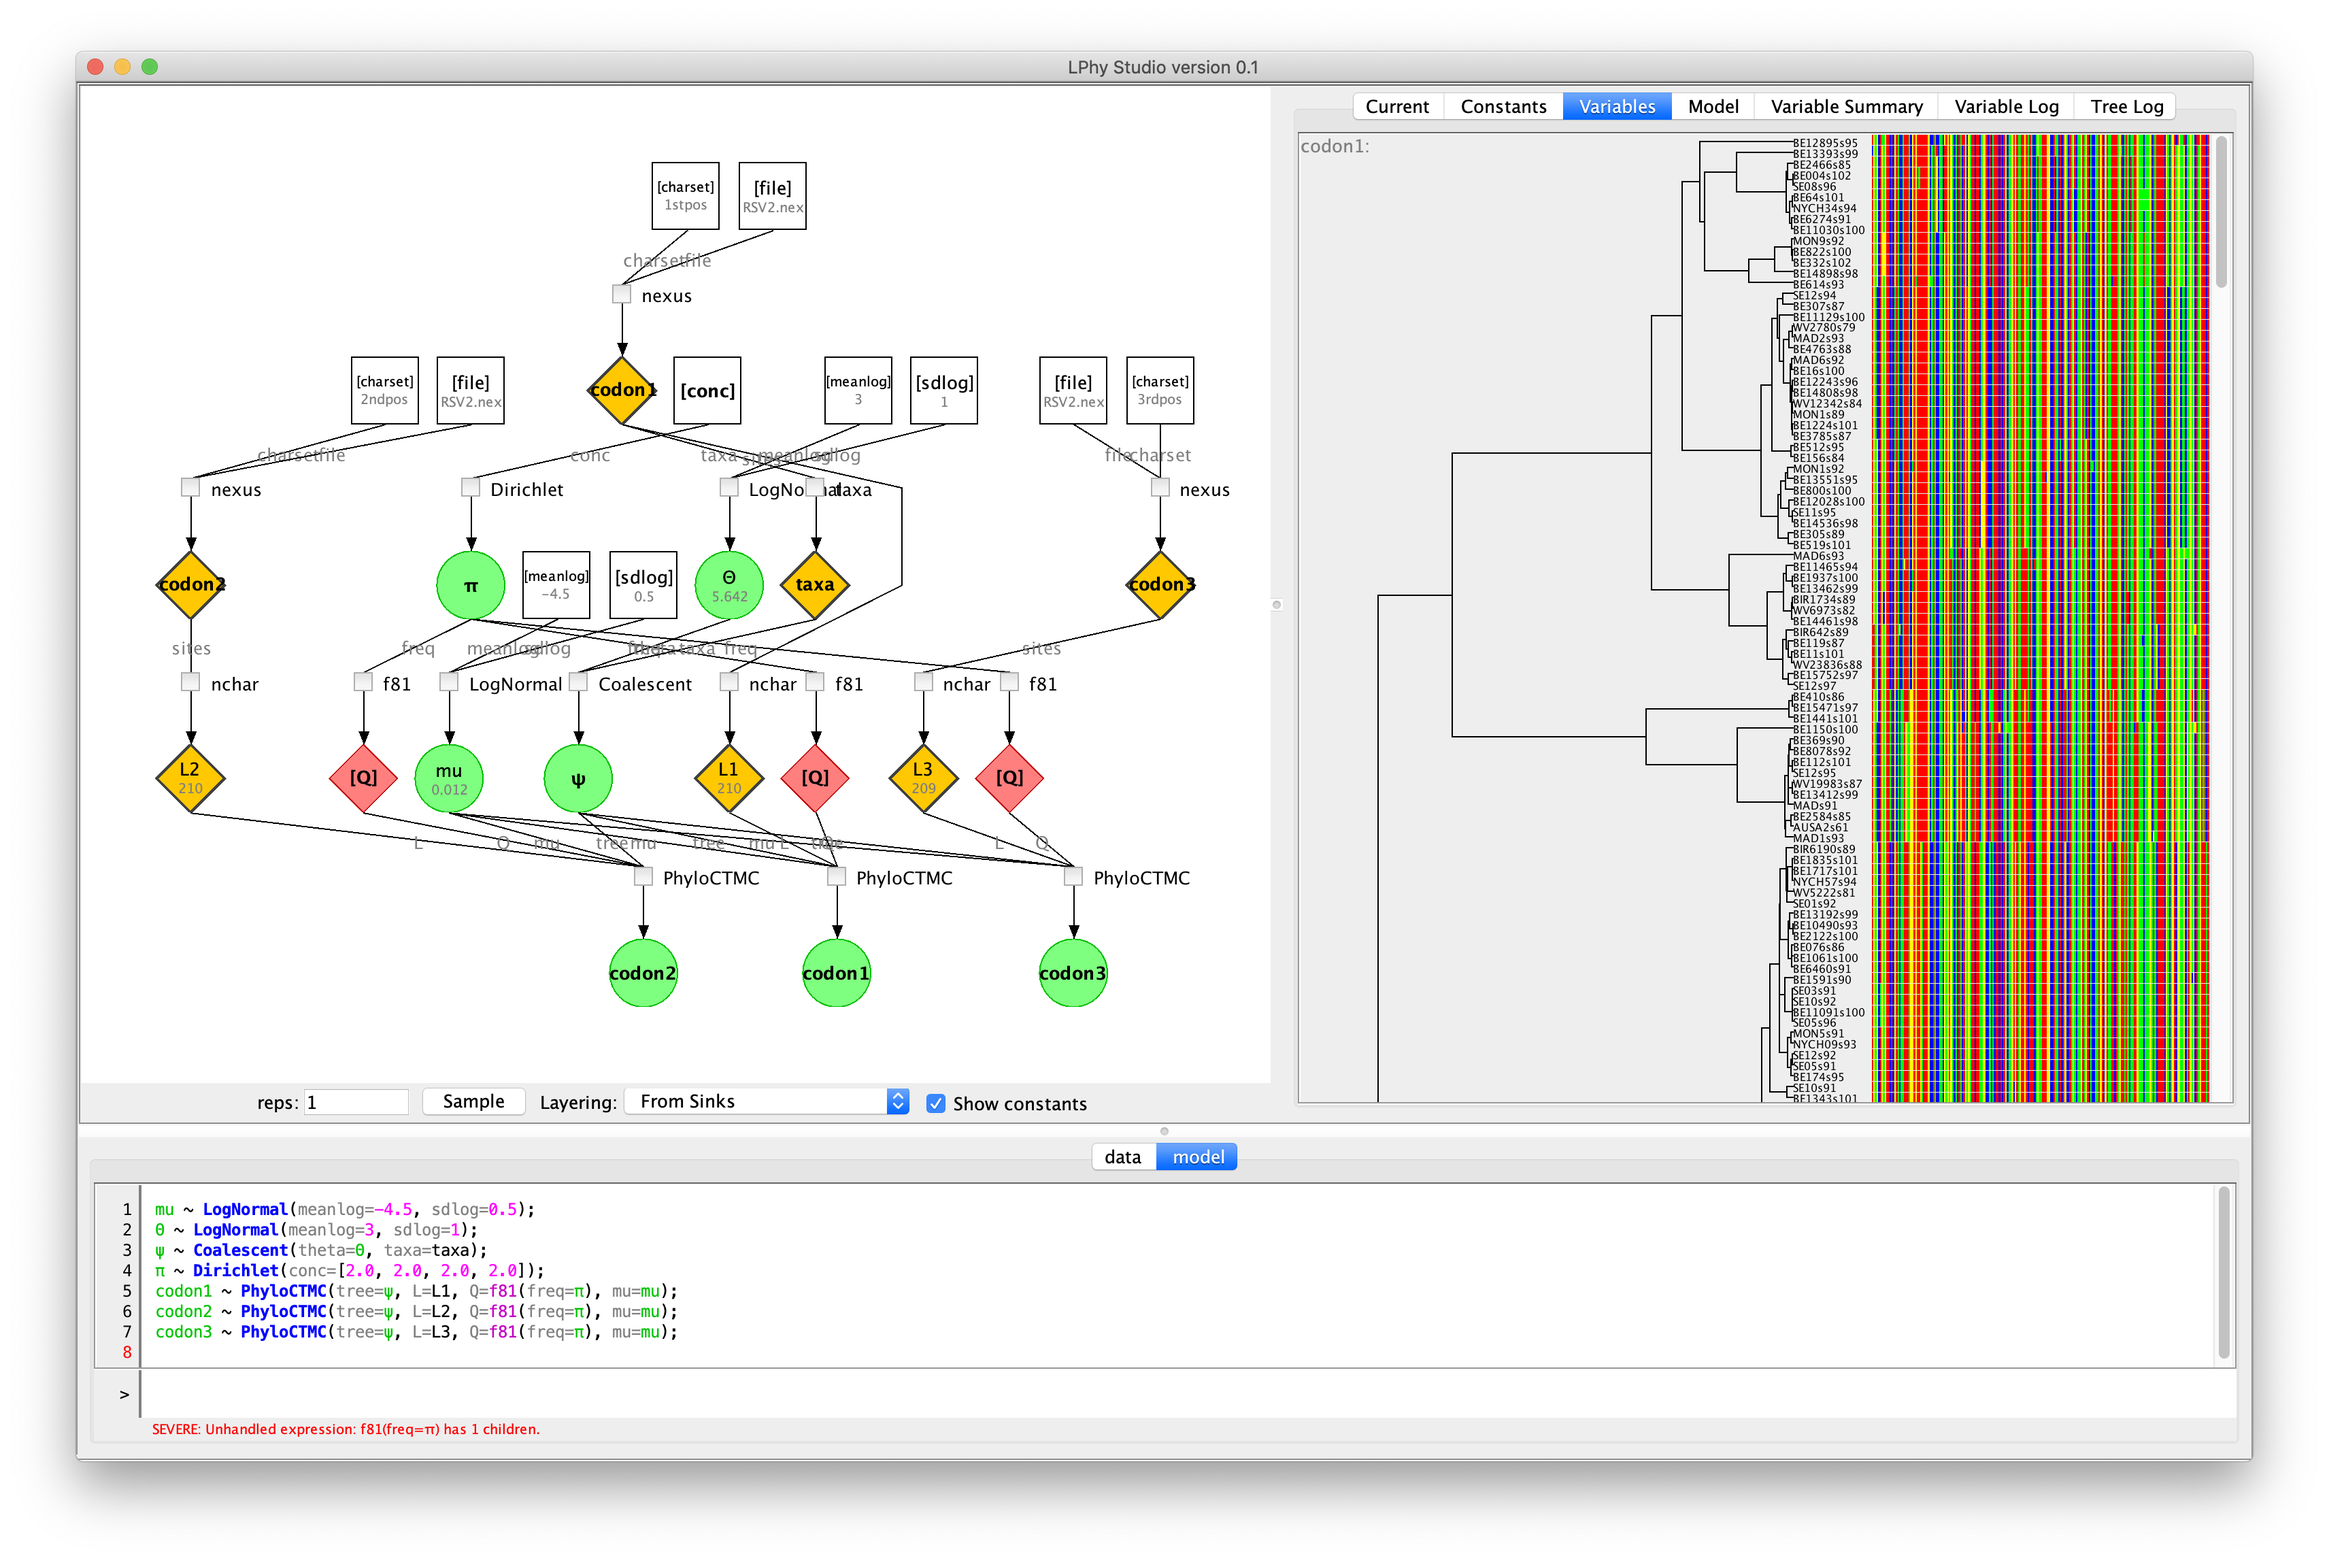
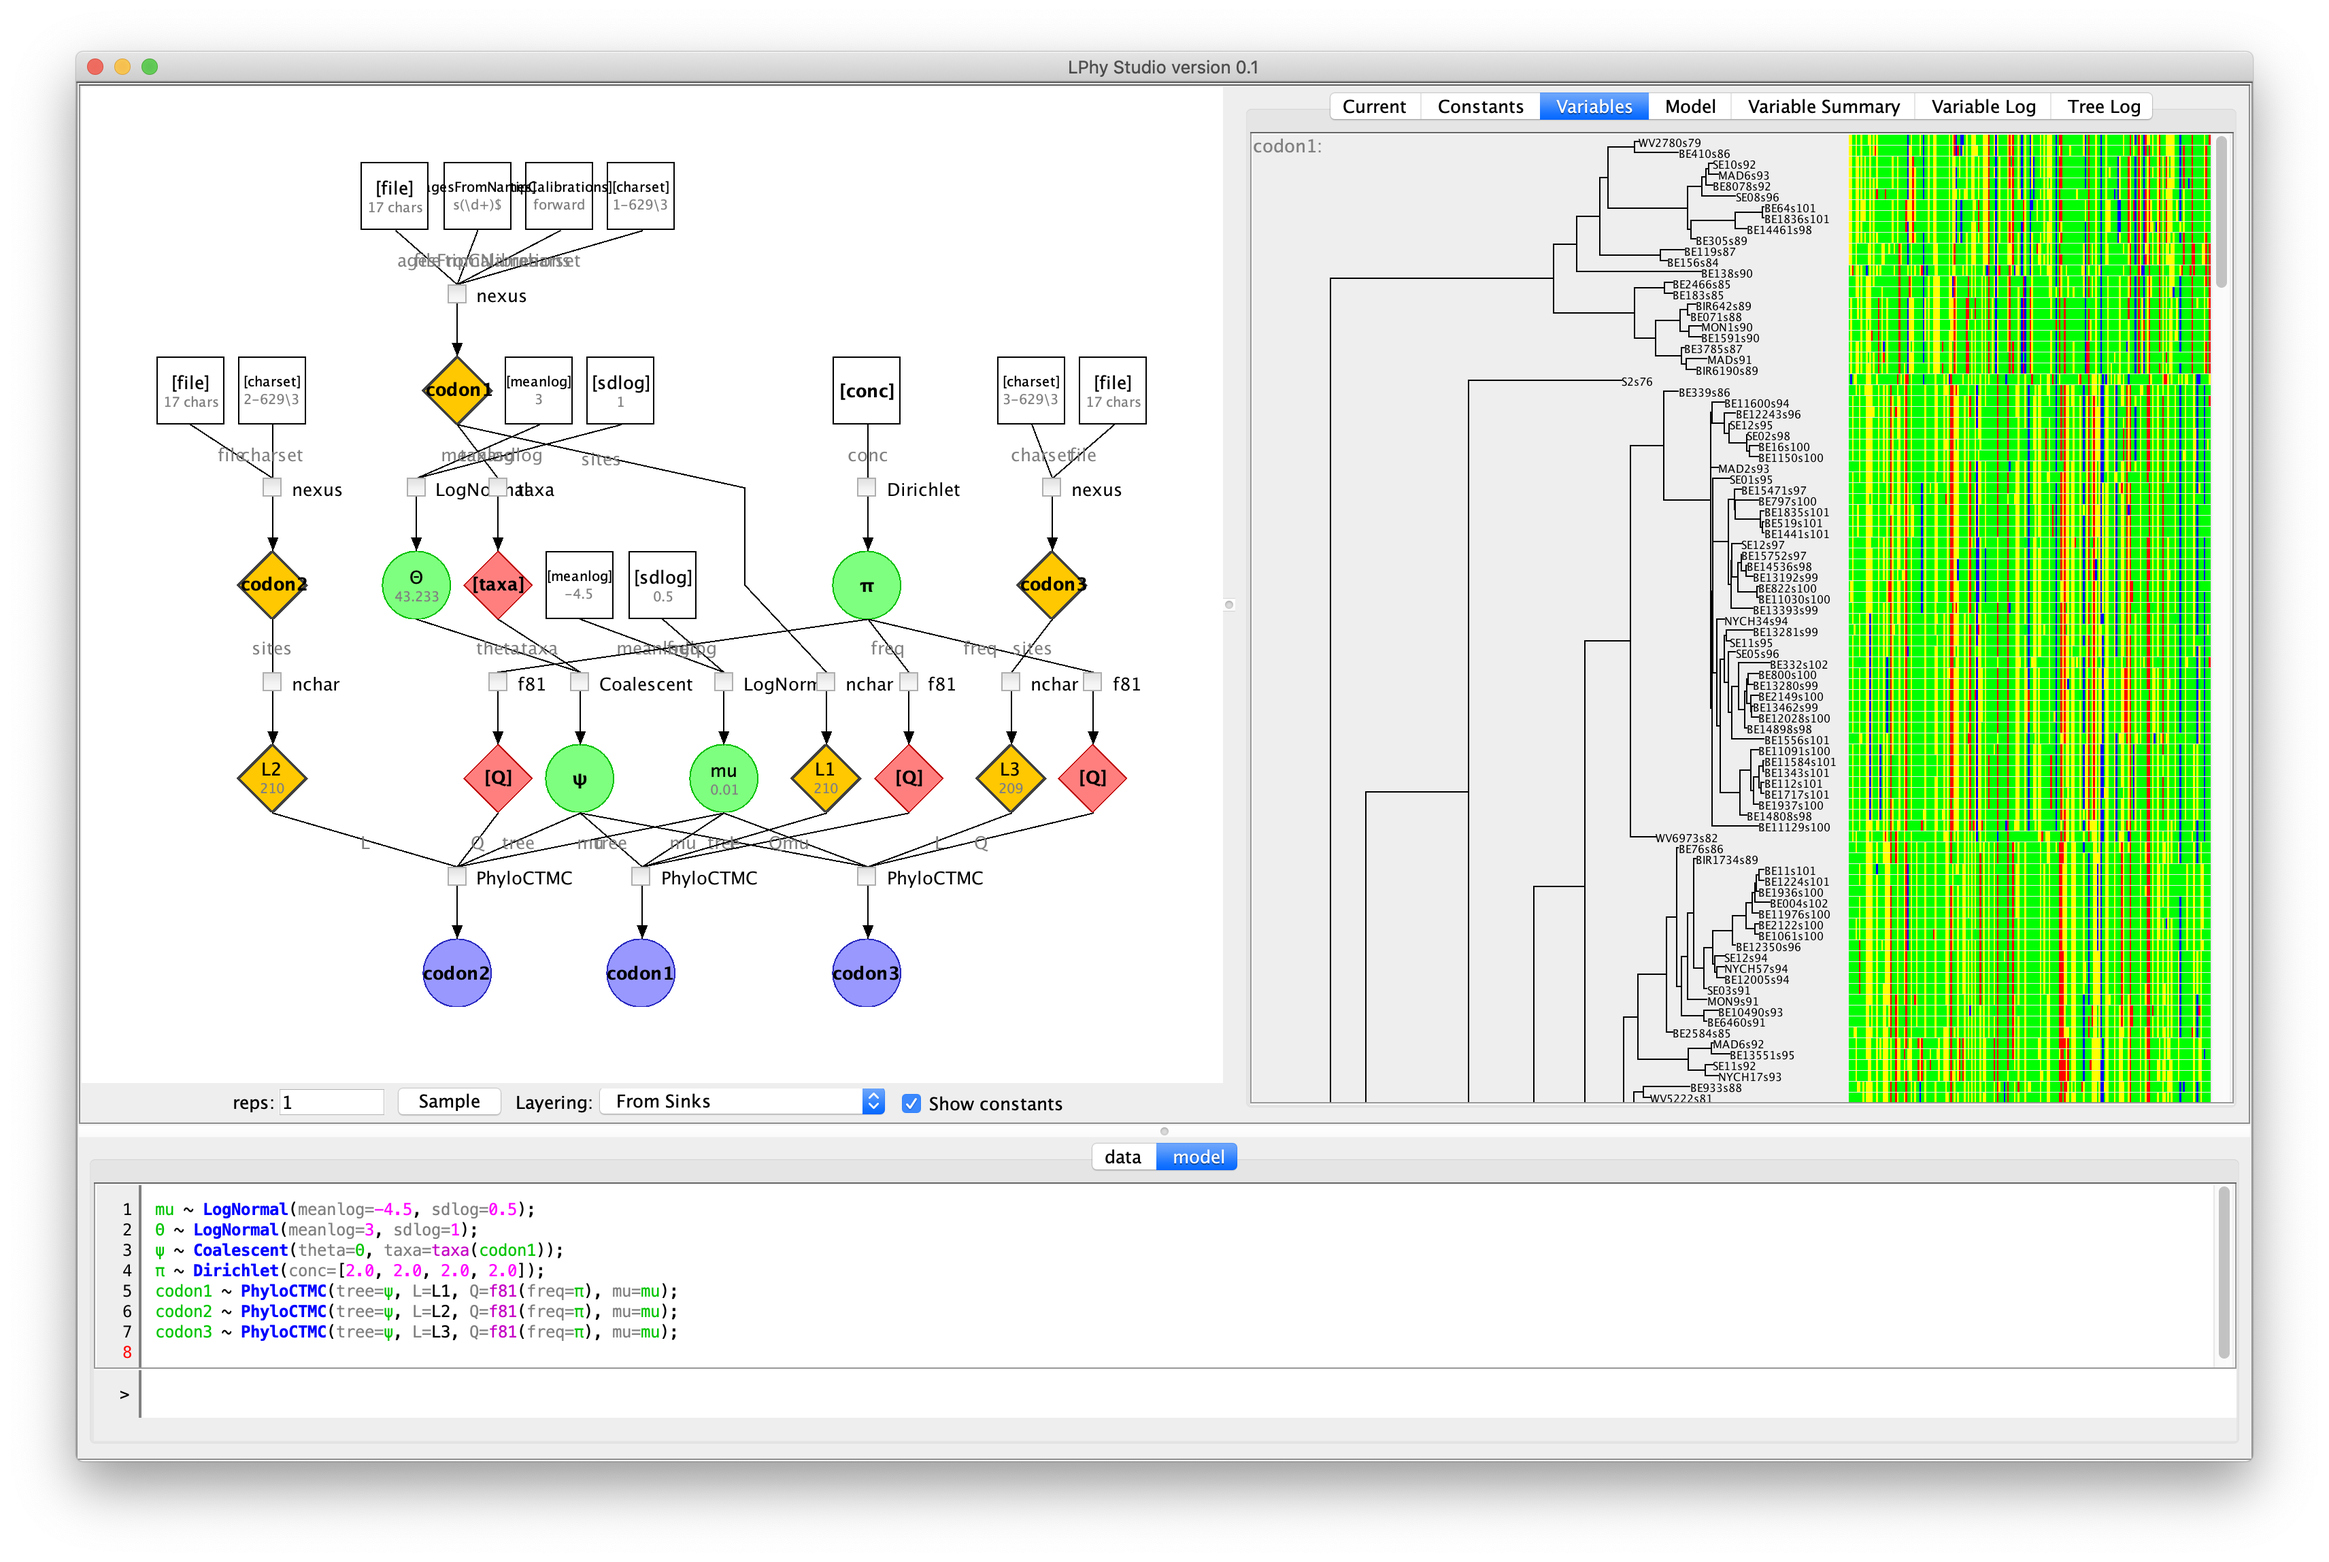
update script

diff --git a/tutorials/time-stamped-data.md b/tutorials/time-stamped-data.md
@@ -37,33 +37,24 @@ After the data is opened in your web browser, right click mouse and save it in a
 This file contains an alignment of 129 sequences from the G gene of RSVA virus, 629 nucleotides in length. 
 Because this is a protein-coding gene we are going to split the alignment into three partitions representing each of the three codon positions. 
 
-Please add the charset block to RSV2.nex before you start:
 
-```
-Begin ASSUMPTIONS;
-	charset 1stpos = 1-629\3;
-	charset 2ndpos = 2-629\3;
-	charset 3rdpos = 3-629\3;
-End;
-```
+### Tip dates
+
+
+
 
 ### Constructing the data block in LinguaPhylo
 
 ```
 data {
-  codon1 = nexus(file="RSV2.nex", charset="1stpos");  
-  codon2 = nexus(file="RSV2.nex", charset="2ndpos");  
-  codon3 = nexus(file="RSV2.nex", charset="3rdpos"); 
-  taxa = taxa(codon1);
-  L1 = nchar(codon1); 
-  L2 = nchar(codon2); 
-  L3 = nchar(codon3); 
+  codon1 = nexus(file="RSV2.nex", charset="1-629\3", agesFromNames="s(\d+)$", tipCalibrations="forward");
+  codon2 = nexus(file="RSV2.nex", charset="2-629\3");
+  codon3 = nexus(file="RSV2.nex", charset="3-629\3");
+  L1 = nchar(codon1);
+  L2 = nchar(codon2);
+  L3 = nchar(codon3);
 }
 ```
-
-### Tip dates
-
-
 
 ## Models
 
